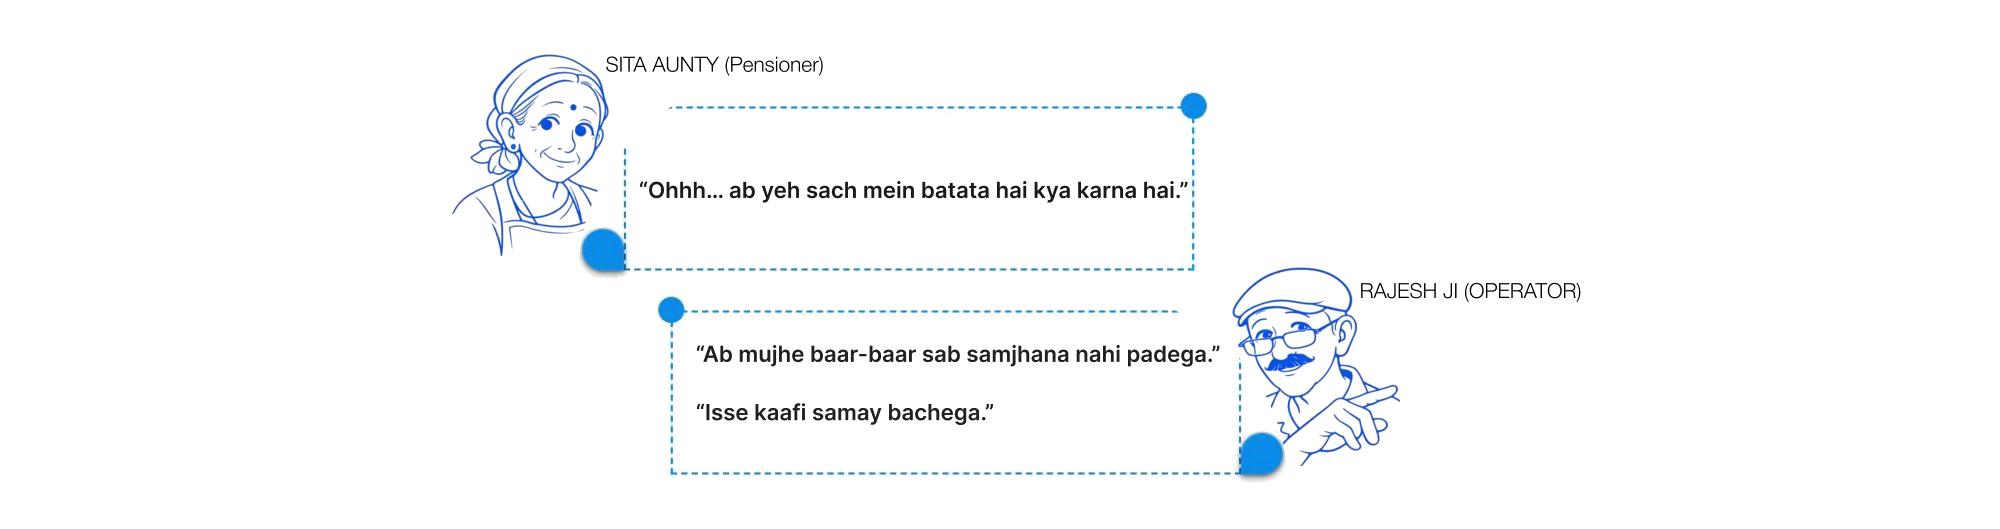
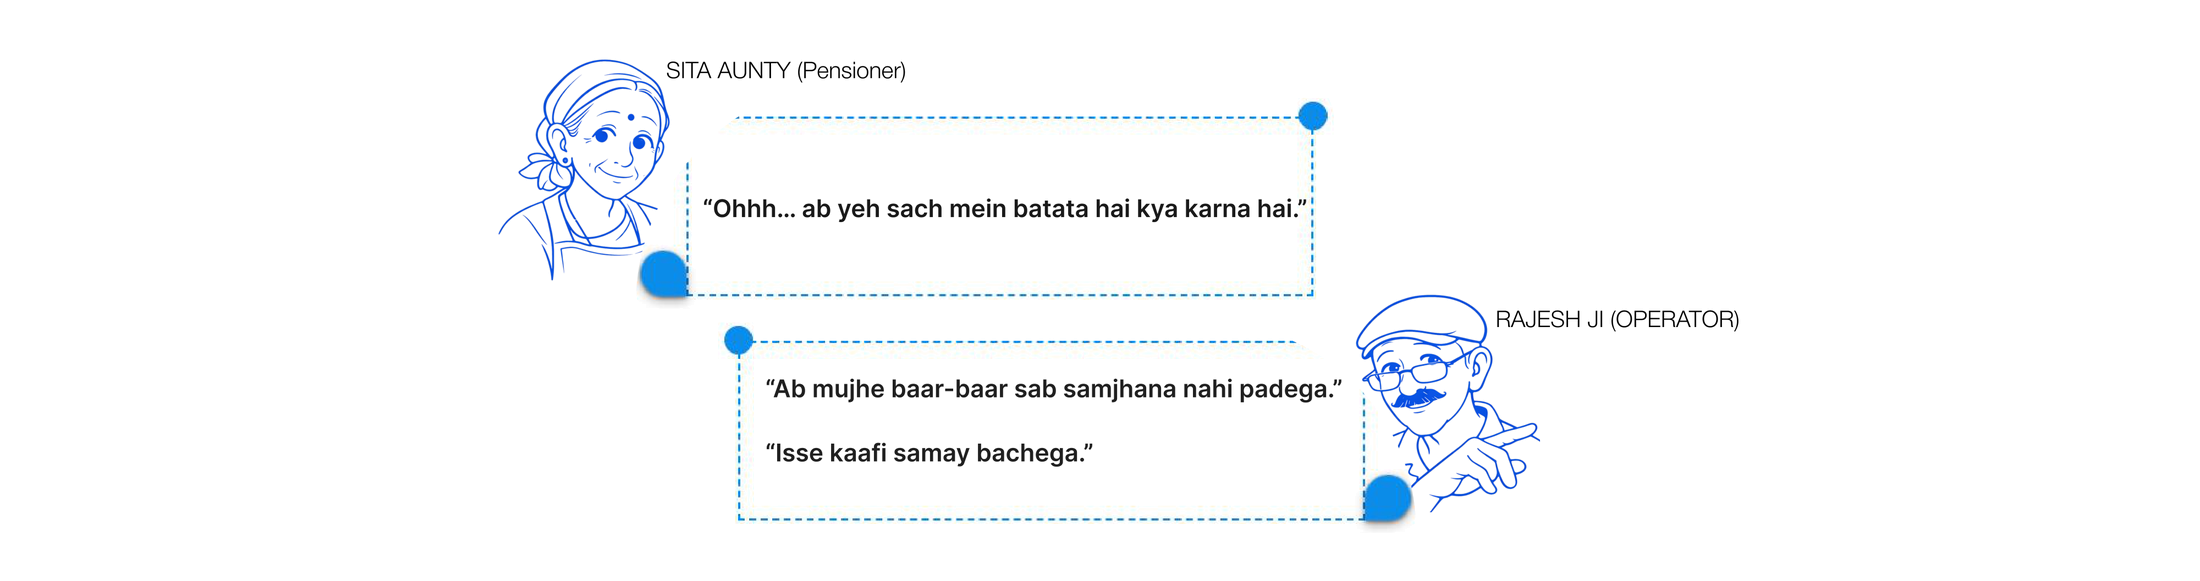
Biometric images: transparent backgrounds, high-res re-render
Claude-Session: https://claude.ai/code/session_01QBZZib9KCCBedNvbZQFBnX

diff --git a/biometric.html b/biometric.html
@@ -496,9 +496,9 @@
 
 
   /* ── White image cards ── */
-  .cs-image { background: #fff !important; border: 1px solid #ece8e1 !important; border-radius: 16px; padding: 14px; }
+  .cs-image { background: transparent !important; border: none !important; padding: 0; }
   .cs-image img { border-radius: 8px; }
-  .hero-image { background: #fff !important; border: 1px solid #ece8e1 !important; }
+  .hero-image { background: transparent !important; border: none !important; }
   .hero-image img { animation: bioFloat 5s ease-in-out infinite; }
   @keyframes bioFloat { 0%,100% { transform: translateY(0); } 50% { transform: translateY(-8px); } }
 

diff --git a/index.html b/index.html
@@ -919,7 +919,7 @@
       <!-- Card: Biometric -->
       <a href="biometric.html" class="project-card reveal" style="transition-delay:.05s">
         <div>
-          <div class="mockup-container bio-mock" style="background:#fff">
+          <div class="mockup-container bio-mock" style="background:transparent">
             <img src="assets/bio/hero.png" alt="Fingerprint scanner" style="width:100%;height:100%;object-fit:cover;display:block">
           </div>
           <div class="card-header">
